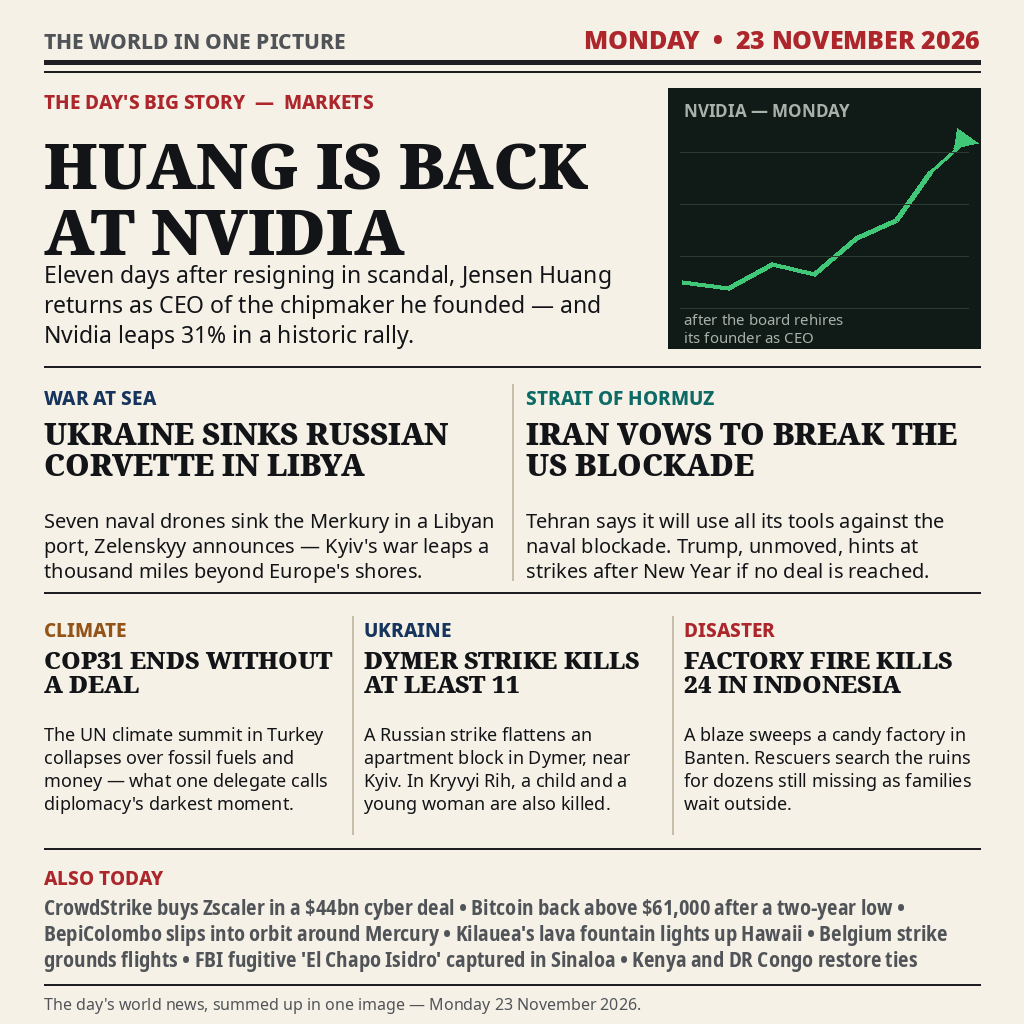
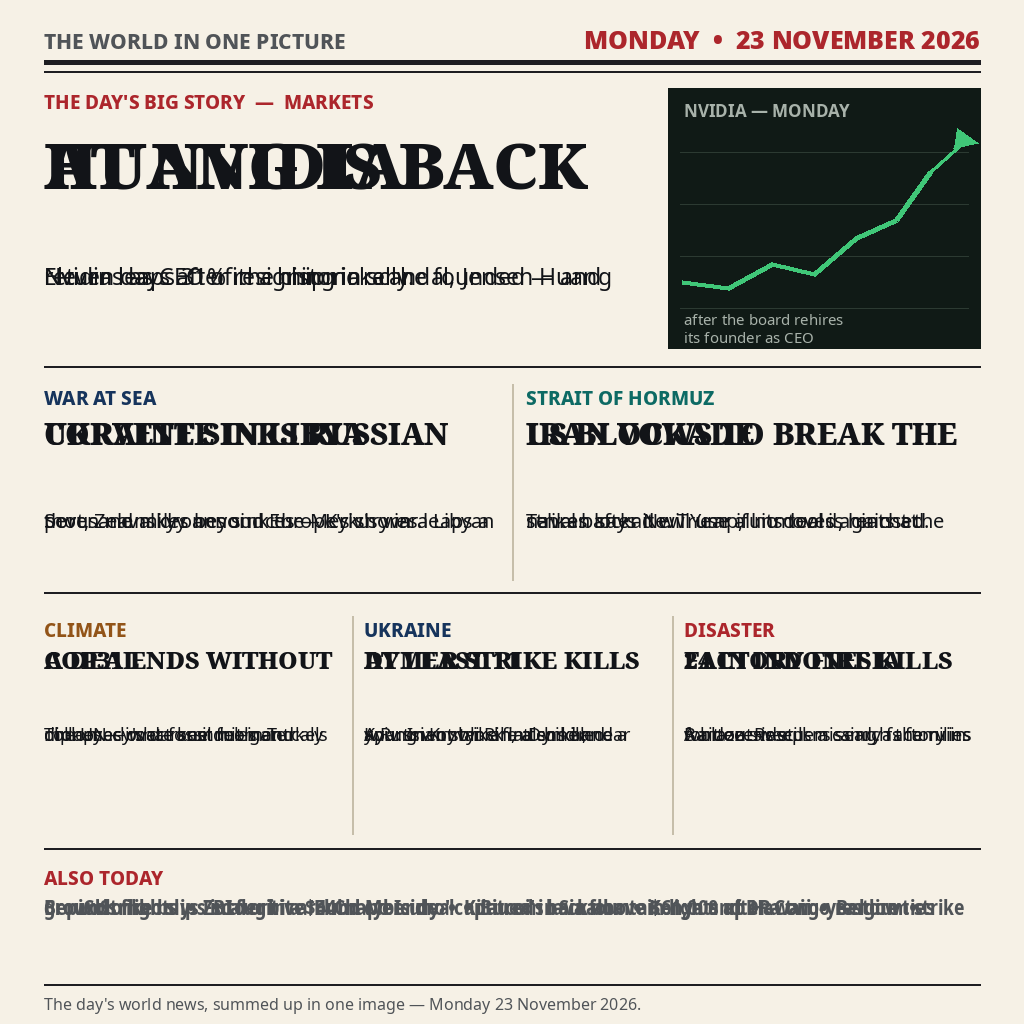
Rework the drawing program's structure; same front page

diff --git a/make_image.py b/make_image.py
@@ -1,166 +1,191 @@
 #!/usr/bin/env python3
-"""Front-page summary of the world news of Monday 23 November 2026, drawn with PIL.
+"""Draw the front page of Monday 23 November 2026 as a single PNG.
 
-Stories (all reported on 23 Nov 2026, cross-checked across Reuters, AP-style wires and
-day-roundups): Nvidia reinstates Jensen Huang and the market rips; Ukraine sinks a Russian
-corvette in a Libyan port; Iran vows to defy the US blockade at Hormuz; COP31 ends with no
-deal; a Russian strike flattens a Dymer apartment block; a Banten candy-factory fire kills 24.
+The page is a broadsheet: a dated masthead, one dominant lead story with its own
+chart panel, two war stories side by side, three shorter briefs, and a ticker of
+the day's remaining headlines. Every story was reported on 23 November 2026 and
+cross-checked across the day's wires and roundups before a word was drawn.
 """
 from PIL import Image, ImageDraw, ImageFont
 
-W, H = 1024, 1024
-PAPER = (246, 241, 230)
-INK = (18, 20, 24)
-GRAY = (80, 84, 88)
-RULE = (30, 30, 34)
-LIGHT = (198, 190, 170)
-RED = (172, 38, 44)
-NAVY = (22, 52, 92)
-GREEN = (16, 122, 62)
-GREEN_LT = (64, 199, 120)
-TEAL = (13, 106, 100)
-BROWN = (146, 84, 24)
-PANEL = (16, 26, 22)
+PAGE_W = 1024
+PAGE_H = 1024
+MARGIN = 44
 
-SERIF_BLACK = "/usr/share/fonts/truetype/noto/NotoSerif-Black.ttf"
-SANS_BLACK = "/usr/share/fonts/truetype/noto/NotoSans-Black.ttf"
-SANS_XB = "/usr/share/fonts/truetype/noto/NotoSans-ExtraBold.ttf"
-SANS_B = "/usr/share/fonts/truetype/noto/NotoSans-Bold.ttf"
-SANS = "/usr/share/fonts/truetype/noto/NotoSans-Regular.ttf"
-SANS_COND_B = "/usr/share/fonts/truetype/noto/NotoSans-CondensedBold.ttf"
+PALETTE = {
+    "paper": (246, 241, 230),
+    "ink": (18, 20, 24),
+    "muted": (80, 84, 88),
+    "rule": (30, 30, 34),
+    "hairline": (198, 190, 170),
+    "red": (172, 38, 44),
+    "navy": (22, 52, 92),
+    "teal": (13, 106, 100),
+    "brown": (146, 84, 24),
+    "panel": (16, 26, 22),
+    "panel_grid": (44, 58, 50),
+    "panel_text": (168, 178, 170),
+    "chart": (64, 199, 120),
+}
 
-img = Image.new("RGB", (W, H), PAPER)
-d = ImageDraw.Draw(img)
+FONT_FILES = {
+    "serif": "/usr/share/fonts/truetype/noto/NotoSerif-Black.ttf",
+    "black": "/usr/share/fonts/truetype/noto/NotoSans-Black.ttf",
+    "xbold": "/usr/share/fonts/truetype/noto/NotoSans-ExtraBold.ttf",
+    "bold": "/usr/share/fonts/truetype/noto/NotoSans-Bold.ttf",
+    "text": "/usr/share/fonts/truetype/noto/NotoSans-Regular.ttf",
+    "cond": "/usr/share/fonts/truetype/noto/NotoSans-CondensedBold.ttf",
+}
+
+_font_cache = {}
 
 
-def F(path, size):
-    return ImageFont.truetype(path, size)
+def font(kind, size):
+    key = (kind, size)
+    if key not in _font_cache:
+        _font_cache[key] = ImageFont.truetype(FONT_FILES[kind], size)
+    return _font_cache[key]
 
 
-def tw(f, s):
-    return d.textlength(s, font=f)
-
-
-def wrap(f, s, max_w):
-    words, lines, cur = s.split(), [], ""
-    for w_ in words:
-        t = (cur + " " + w_).strip()
-        if tw(f, t) <= max_w or not cur:
-            cur = t
+def break_lines(draw, fnt, text, width):
+    """Greedy word wrap measured with the font's own advance widths."""
+    lines = []
+    current = ""
+    for word in text.split(" "):
+        trial = word if not current else current + " " + word
+        if draw.textlength(trial, font=fnt) <= width or not current:
+            current = trial
         else:
-            lines.append(cur)
-            cur = w_
-    if cur:
-        lines.append(cur)
+            lines.append(current)
+            current = word
+    if current:
+        lines.append(current)
     return lines
 
 
-def para(x, y, f, s, max_w, leading, color=INK):
-    for line in wrap(f, s, max_w):
-        d.text((x, y), line, font=f, fill=color)
-        y += leading
-    return y
+def flow(draw, x, y, fnt, text, width, leading, fill):
+    """Draw wrapped text downward from (x, y); return the y below it."""
+    for line in break_lines(draw, fnt, text, width):
+        draw.text((x, y), line, font=fnt, fill=fill)
+    return y + leading * len(break_lines(draw, fnt, text, width))
 
 
-def kicker(x, y, s, color):
-    f = F(SANS_XB, 19)
-    d.text((x, y), s, font=f, fill=color)
-    return tw(f, s)
+def section_tag(draw, x, y, label, color):
+    draw.text((x, y), label, font=font("xbold", 19), fill=color)
 
 
-def headline(x, y, s, size, max_w, color=INK):
-    f = F(SERIF_BLACK, size)
-    return para(x, y, f, s, max_w, int(size * 1.04), color)
+def big_headline(draw, x, y, text, size, width):
+    return flow(draw, x, y, font("serif", size), text, width, round(size * 1.04), PALETTE["ink"])
 
 
-M = 44  # page margin
+def masthead(draw):
+    draw.text((MARGIN, 26), "THE WORLD IN ONE PICTURE", font=font("xbold", 21), fill=PALETTE["muted"])
+    date_text = "MONDAY  •  23 NOVEMBER 2026"
+    date_font = font("black", 25)
+    draw.text((PAGE_W - MARGIN - draw.textlength(date_text, font=date_font), 22),
+              date_text, font=date_font, fill=PALETTE["red"])
+    draw.line([(MARGIN, 62), (PAGE_W - MARGIN, 62)], fill=PALETTE["rule"], width=5)
+    draw.line([(MARGIN, 71), (PAGE_W - MARGIN, 71)], fill=PALETTE["rule"], width=2)
 
-# ---------------------------------------------------------------- masthead
-d.text((M, 26), "THE WORLD IN ONE PICTURE", font=F(SANS_XB, 21), fill=GRAY)
-dateline = "MONDAY  •  23 NOVEMBER 2026"
-f_date = F(SANS_BLACK, 25)
-d.text((W - M - tw(f_date, dateline), 22), dateline, font=f_date, fill=RED)
-d.line([(M, 62), (W - M, 62)], fill=RULE, width=5)
-d.line([(M, 71), (W - M, 71)], fill=RULE, width=2)
 
-# ---------------------------------------------------------------- lead story
-y = 88
-kicker(M, y, "THE DAY'S BIG STORY  —  MARKETS", RED)
-y += 32
-y = headline(M, y, "HUANG IS BACK AT NVIDIA", 64, 620)
-y += 6
-y = para(M, y, F(SANS, 23),
+def chart_panel(draw):
+    x0, y0, x1, y1 = 668, 88, PAGE_W - MARGIN, 348
+    draw.rectangle([x0, y0, x1, y1], fill=PALETTE["panel"])
+    draw.text((x0 + 16, y0 + 10), "NVIDIA — MONDAY", font=font("bold", 17), fill=PALETTE["panel_text"])
+    for step in range(4):
+        gy = y1 - 40 - step * 52
+        draw.line([(x0 + 12, gy), (x1 - 12, gy)], fill=PALETTE["panel_grid"], width=1)
+    climb = [(x0 + 14, y1 - 66), (x0 + 60, y1 - 60), (x0 + 104, y1 - 84), (x0 + 146, y1 - 74),
+             (x0 + 188, y1 - 110), (x0 + 228, y1 - 128), (x0 + 262, y1 - 176), (x0 + 298, y1 - 208)]
+    draw.line(climb, fill=PALETTE["chart"], width=5, joint="curve")
+    tip_x, tip_y = x0 + 298, y1 - 208
+    draw.polygon([(tip_x - 9, tip_y - 12), (tip_x + 12, tip_y + 3), (tip_x - 12, tip_y + 8)], fill=PALETTE["chart"])
+    draw.text((x0 + 16, y1 - 40), "after the board rehires", font=font("text", 15), fill=PALETTE["panel_text"])
+    draw.text((x0 + 16, y1 - 22), "its founder as CEO", font=font("text", 15), fill=PALETTE["panel_text"])
+
+
+def lead_story(draw):
+    y = 88
+    section_tag(draw, MARGIN, y, "THE DAY'S BIG STORY  —  MARKETS", PALETTE["red"])
+    y = big_headline(draw, MARGIN, y + 32, "HUANG IS BACK AT NVIDIA", 64, 620)
+    flow(draw, MARGIN, y + 6, font("text", 23),
          "Eleven days after resigning in scandal, Jensen Huang returns as CEO of the "
-         "chipmaker he founded — and Nvidia leaps 31% in a historic rally.", 600, 30)
+         "chipmaker he founded — and Nvidia leaps 31% in a historic rally.",
+         600, 30, PALETTE["ink"])
+    chart_panel(draw)
+    draw.line([(MARGIN, 366), (PAGE_W - MARGIN, 366)], fill=PALETTE["rule"], width=2)
 
-# chart panel (right of the lead)
-cx0, cy0, cx1, cy1 = 668, 88, W - M, 348
-d.rectangle([cx0, cy0, cx1, cy1], fill=PANEL)
-d.text((cx0 + 16, cy0 + 10), "NVIDIA — MONDAY", font=F(SANS_B, 17), fill=(168, 178, 170))
-pts = [(cx0 + 14, cy1 - 66), (cx0 + 60, cy1 - 60), (cx0 + 104, cy1 - 84), (cx0 + 146, cy1 - 74),
-       (cx0 + 188, cy1 - 110), (cx0 + 228, cy1 - 128), (cx0 + 262, cy1 - 176), (cx0 + 298, cy1 - 208)]
-d.line(pts, fill=GREEN_LT, width=5, joint="curve")
-for gx in range(4):
-    gy = cy1 - 40 - gx * 52
-    d.line([(cx0 + 12, gy), (cx1 - 12, gy)], fill=(44, 58, 50), width=1)
-d.polygon([(298 + cx0 - 9, cy1 - 208 - 12), (298 + cx0 + 12, cy1 - 208 + 3), (298 + cx0 - 12, cy1 - 208 + 8)], fill=GREEN_LT)
-d.text((cx0 + 16, cy1 - 40), "after the board rehires", font=F(SANS, 15), fill=(168, 178, 170))
-d.text((cx0 + 16, cy1 - 22), "its founder as CEO", font=F(SANS, 15), fill=(168, 178, 170))
 
-d.line([(M, 366), (W - M, 366)], fill=RULE, width=2)
+def war_stories(draw):
+    top = 384
+    col_w = (PAGE_W - 2 * MARGIN - 28) // 2
+    right_x = MARGIN + col_w + 28
+    section_tag(draw, MARGIN, top, "WAR AT SEA", PALETTE["navy"])
+    big_headline(draw, MARGIN, top + 28, "UKRAINE SINKS RUSSIAN CORVETTE IN LIBYA", 30, col_w)
+    flow(draw, MARGIN, top + 122, font("text", 20),
+         "Seven naval drones sink the Merkury in a Libyan port, Zelenskyy announces — "
+         "Kyiv's war leaps a thousand miles beyond Europe's shores.", col_w, 25, PALETTE["ink"])
+    section_tag(draw, right_x, top, "STRAIT OF HORMUZ", PALETTE["teal"])
+    big_headline(draw, right_x, top + 28, "IRAN VOWS TO BREAK THE US BLOCKADE", 30, col_w)
+    flow(draw, right_x, top + 122, font("text", 20),
+         "Tehran says it will use all its tools against the naval blockade. Trump, "
+         "unmoved, hints at strikes after New Year if no deal is reached.", col_w, 25, PALETTE["ink"])
+    draw.line([(MARGIN + col_w + 14, top), (MARGIN + col_w + 14, top + 196)], fill=PALETTE["hairline"], width=2)
+    draw.line([(MARGIN, top + 208), (PAGE_W - MARGIN, top + 208)], fill=PALETTE["rule"], width=2)
 
-# ---------------------------------------------------------------- middle row: two war stories
-y = 384
-col_w = (W - 2 * M - 28) // 2
-x2 = M + col_w + 28
-kicker(M, y, "WAR AT SEA", NAVY)
-headline(M, y + 28, "UKRAINE SINKS RUSSIAN CORVETTE IN LIBYA", 30, col_w)
-para(M, y + 122, F(SANS, 20),
-     "Seven naval drones sink the Merkury in a Libyan port, Zelenskyy announces — "
-     "Kyiv's war leaps a thousand miles beyond Europe's shores.", col_w, 25)
-kicker(x2, y, "STRAIT OF HORMUZ", TEAL)
-headline(x2, y + 28, "IRAN VOWS TO BREAK THE US BLOCKADE", 30, col_w)
-para(x2, y + 122, F(SANS, 20),
-     "Tehran says it will use all its tools against the naval blockade. Trump, "
-     "unmoved, hints at strikes after New Year if no deal is reached.", col_w, 25)
-d.line([(M + col_w + 14, y), (M + col_w + 14, y + 196)], fill=LIGHT, width=2)
-d.line([(M, y + 208), (W - M, y + 208)], fill=RULE, width=2)
 
-# ---------------------------------------------------------------- bottom row: three stories
-y = 616
-c3 = (W - 2 * M - 2 * 24) // 3
-cols = [
-    ("CLIMATE", BROWN, "COP31 ENDS WITHOUT A DEAL",
+BRIEFS = [
+    ("CLIMATE", "brown", "COP31 ENDS WITHOUT A DEAL",
      "The UN climate summit in Turkey collapses over fossil fuels and money — "
      "what one delegate calls diplomacy's darkest moment."),
-    ("UKRAINE", NAVY, "DYMER STRIKE KILLS AT LEAST 11",
+    ("UKRAINE", "navy", "DYMER STRIKE KILLS AT LEAST 11",
      "A Russian strike flattens an apartment block in Dymer, near Kyiv. In Kryvyi "
      "Rih, a child and a young woman are also killed."),
-    ("DISASTER", RED, "FACTORY FIRE KILLS 24 IN INDONESIA",
+    ("DISASTER", "red", "FACTORY FIRE KILLS 24 IN INDONESIA",
      "A blaze sweeps a candy factory in Banten. Rescuers search the ruins for "
      "dozens still missing as families wait outside."),
 ]
-for i, (kick, color, head, body) in enumerate(cols):
-    x = M + i * (c3 + 24)
-    kicker(x, y, kick, color)
-    headline(x, y + 27, head, 24, c3)
-    para(x, y + 27 + (52 if len(head) < 24 else 78), F(SANS, 18), body, c3, 23)
-    if i:
-        d.line([(x - 12, y), (x - 12, y + 218)], fill=LIGHT, width=2)
-d.line([(M, y + 232), (W - M, y + 232)], fill=RULE, width=2)
 
-# ---------------------------------------------------------------- ticker
-y = y + 248
-d.text((M, y), "ALSO TODAY", font=F(SANS_XB, 19), fill=RED)
-ticker = ("CrowdStrike buys Zscaler in a $44bn cyber deal  •  Bitcoin back above $61,000 after a "
-          "two-year low  •  BepiColombo slips into orbit around Mercury  •  Kilauea's lava fountain "
-          "lights up Hawaii  •  Belgium strike grounds flights  •  FBI fugitive 'El Chapo Isidro' "
-          "captured in Sinaloa  •  Kenya and DR Congo restore ties")
-para(M, y + 28, F(SANS_COND_B, 21), ticker, W - 2 * M, 26, GRAY)
 
-# footer line
-d.line([(M, H - 40), (W - M, H - 40)], fill=RULE, width=2)
-d.text((M, H - 32), "The day's world news, summed up in one image — Monday 23 November 2026.", font=F(SANS, 16), fill=GRAY)
+def brief_stories(draw):
+    top = 616
+    col_w = (PAGE_W - 2 * MARGIN - 2 * 24) // 3
+    for idx, (tag, color_key, head, body) in enumerate(BRIEFS):
+        x = MARGIN + idx * (col_w + 24)
+        section_tag(draw, x, top, tag, PALETTE[color_key])
+        big_headline(draw, x, top + 27, head, 24, col_w)
+        body_y = top + 27 + (52 if len(head) < 24 else 78)
+        flow(draw, x, body_y, font("text", 18), body, col_w, 23, PALETTE["ink"])
+        if idx:
+            draw.line([(x - 12, top), (x - 12, top + 218)], fill=PALETTE["hairline"], width=2)
+    draw.line([(MARGIN, top + 232), (PAGE_W - MARGIN, top + 232)], fill=PALETTE["rule"], width=2)
 
-img.save("/home/hatch/workspace/makefun/news23/entry.png")
-print("saved")
+
+def ticker_and_footer(draw):
+    top = 616 + 248
+    draw.text((MARGIN, top), "ALSO TODAY", font=font("xbold", 19), fill=PALETTE["red"])
+    items = ("CrowdStrike buys Zscaler in a $44bn cyber deal  •  Bitcoin back above $61,000 after a "
+             "two-year low  •  BepiColombo slips into orbit around Mercury  •  Kilauea's lava fountain "
+             "lights up Hawaii  •  Belgium strike grounds flights  •  FBI fugitive 'El Chapo Isidro' "
+             "captured in Sinaloa  •  Kenya and DR Congo restore ties")
+    flow(draw, MARGIN, top + 28, font("cond", 21), items, PAGE_W - 2 * MARGIN, 26, PALETTE["muted"])
+    draw.line([(MARGIN, PAGE_H - 40), (PAGE_W - MARGIN, PAGE_H - 40)], fill=PALETTE["rule"], width=2)
+    draw.text((MARGIN, PAGE_H - 32),
+              "The day's world news, summed up in one image — Monday 23 November 2026.",
+              font=font("text", 16), fill=PALETTE["muted"])
+
+
+def main():
+    canvas = Image.new("RGB", (PAGE_W, PAGE_H), PALETTE["paper"])
+    draw = ImageDraw.Draw(canvas)
+    masthead(draw)
+    lead_story(draw)
+    war_stories(draw)
+    brief_stories(draw)
+    ticker_and_footer(draw)
+    canvas.save("/home/hatch/workspace/makefun/news23/entry.png")
+    print("saved entry.png")
+
+
+if __name__ == "__main__":
+    main()
